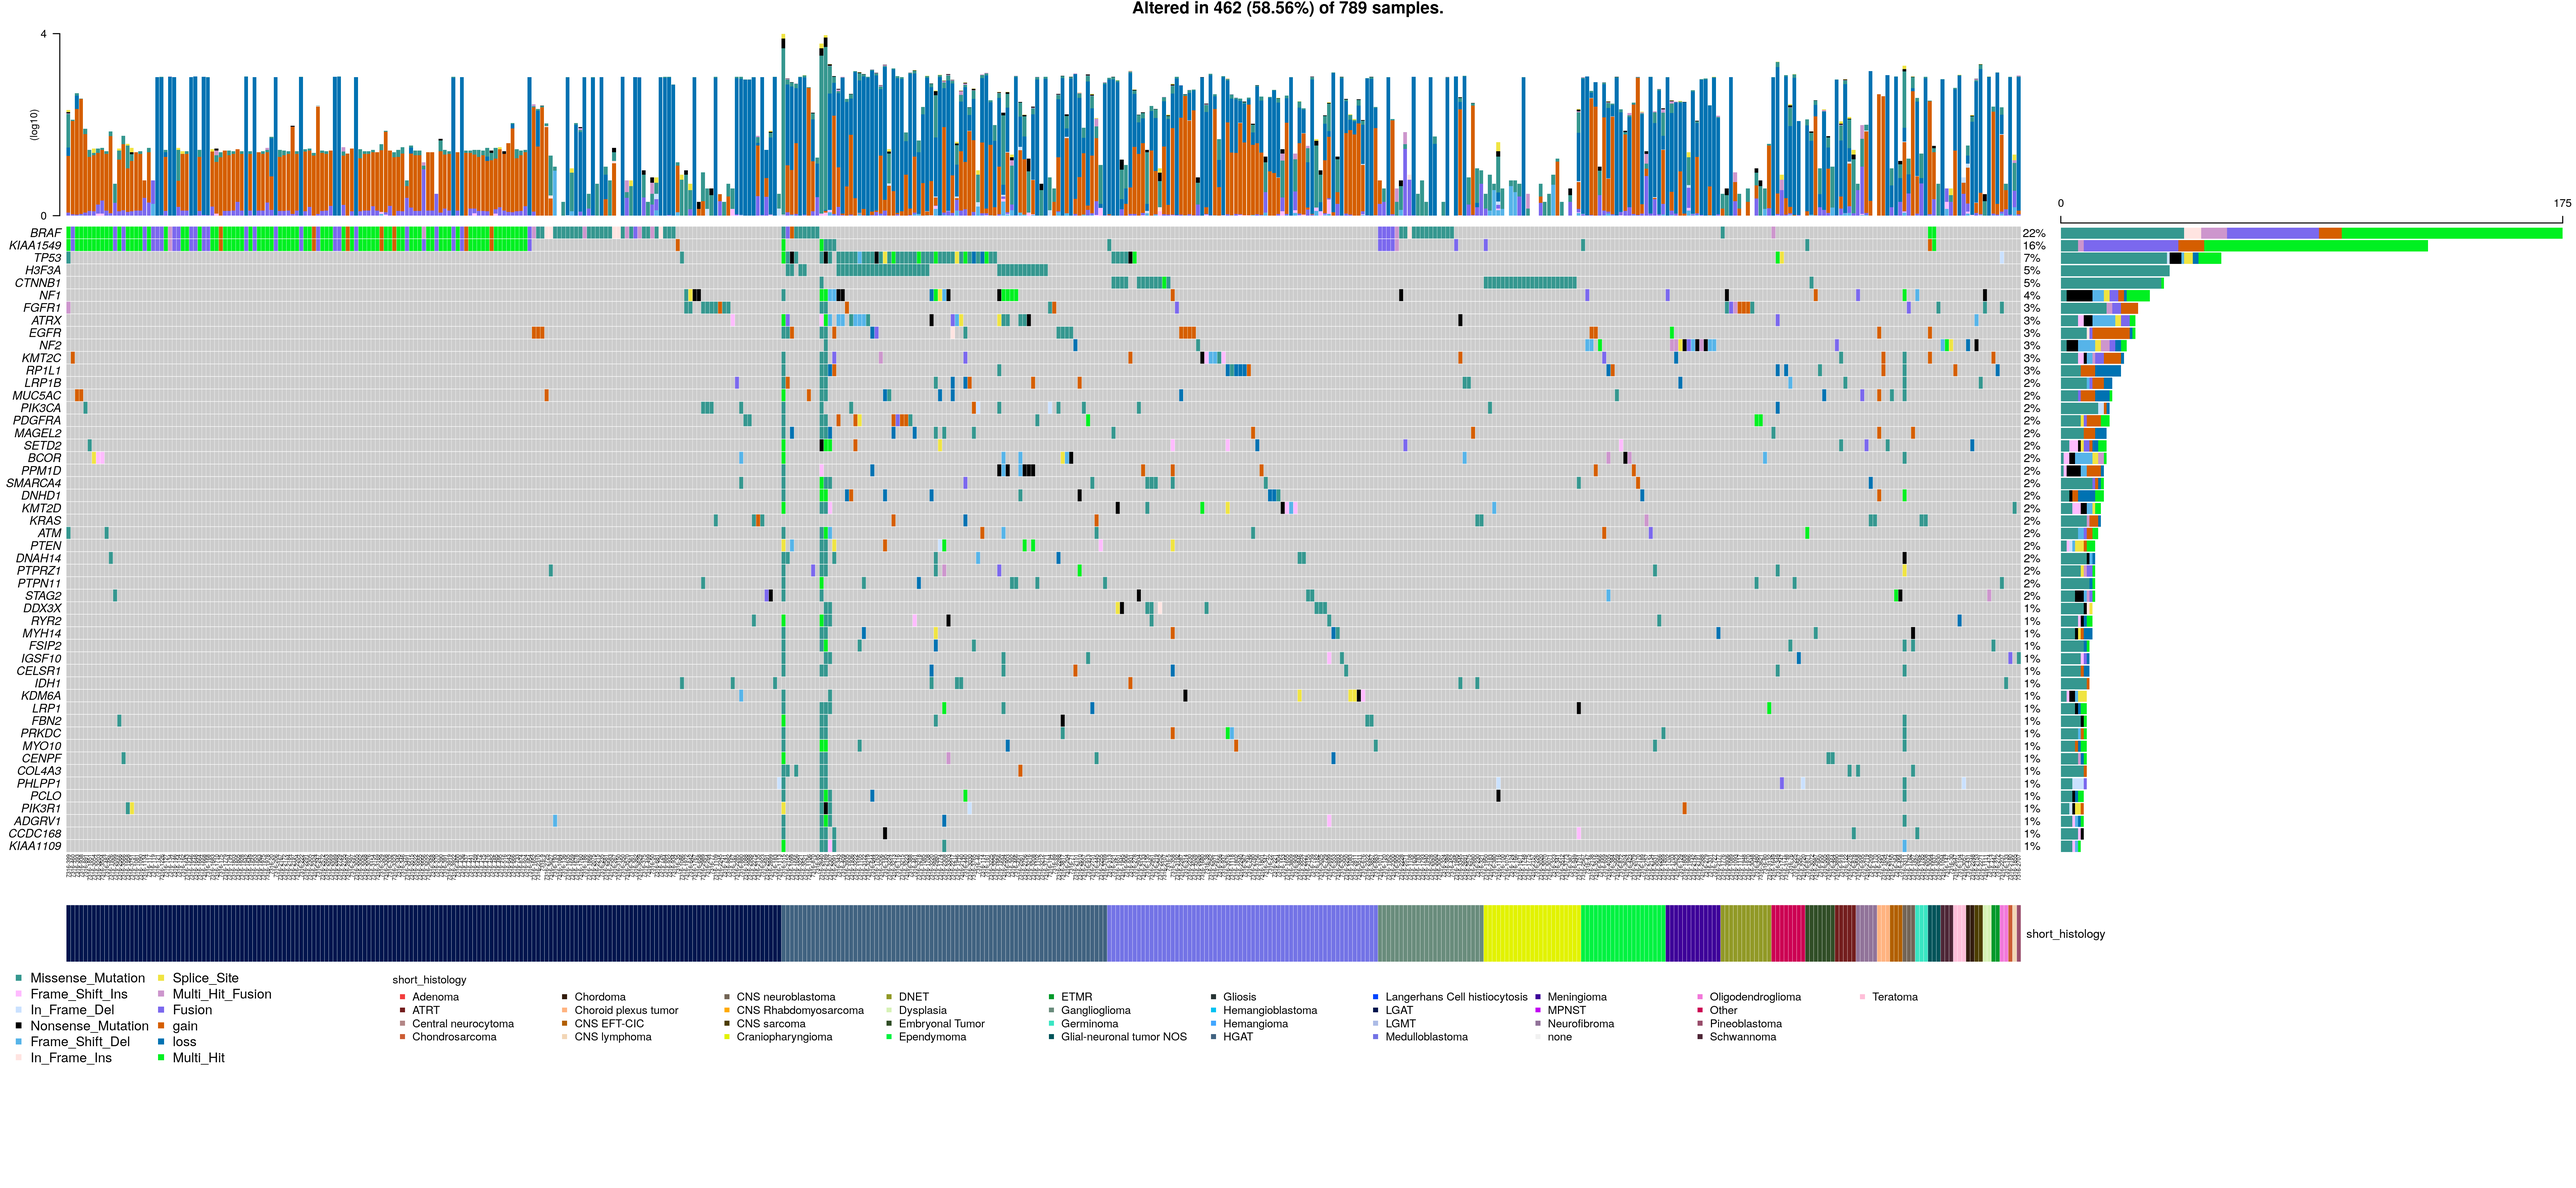
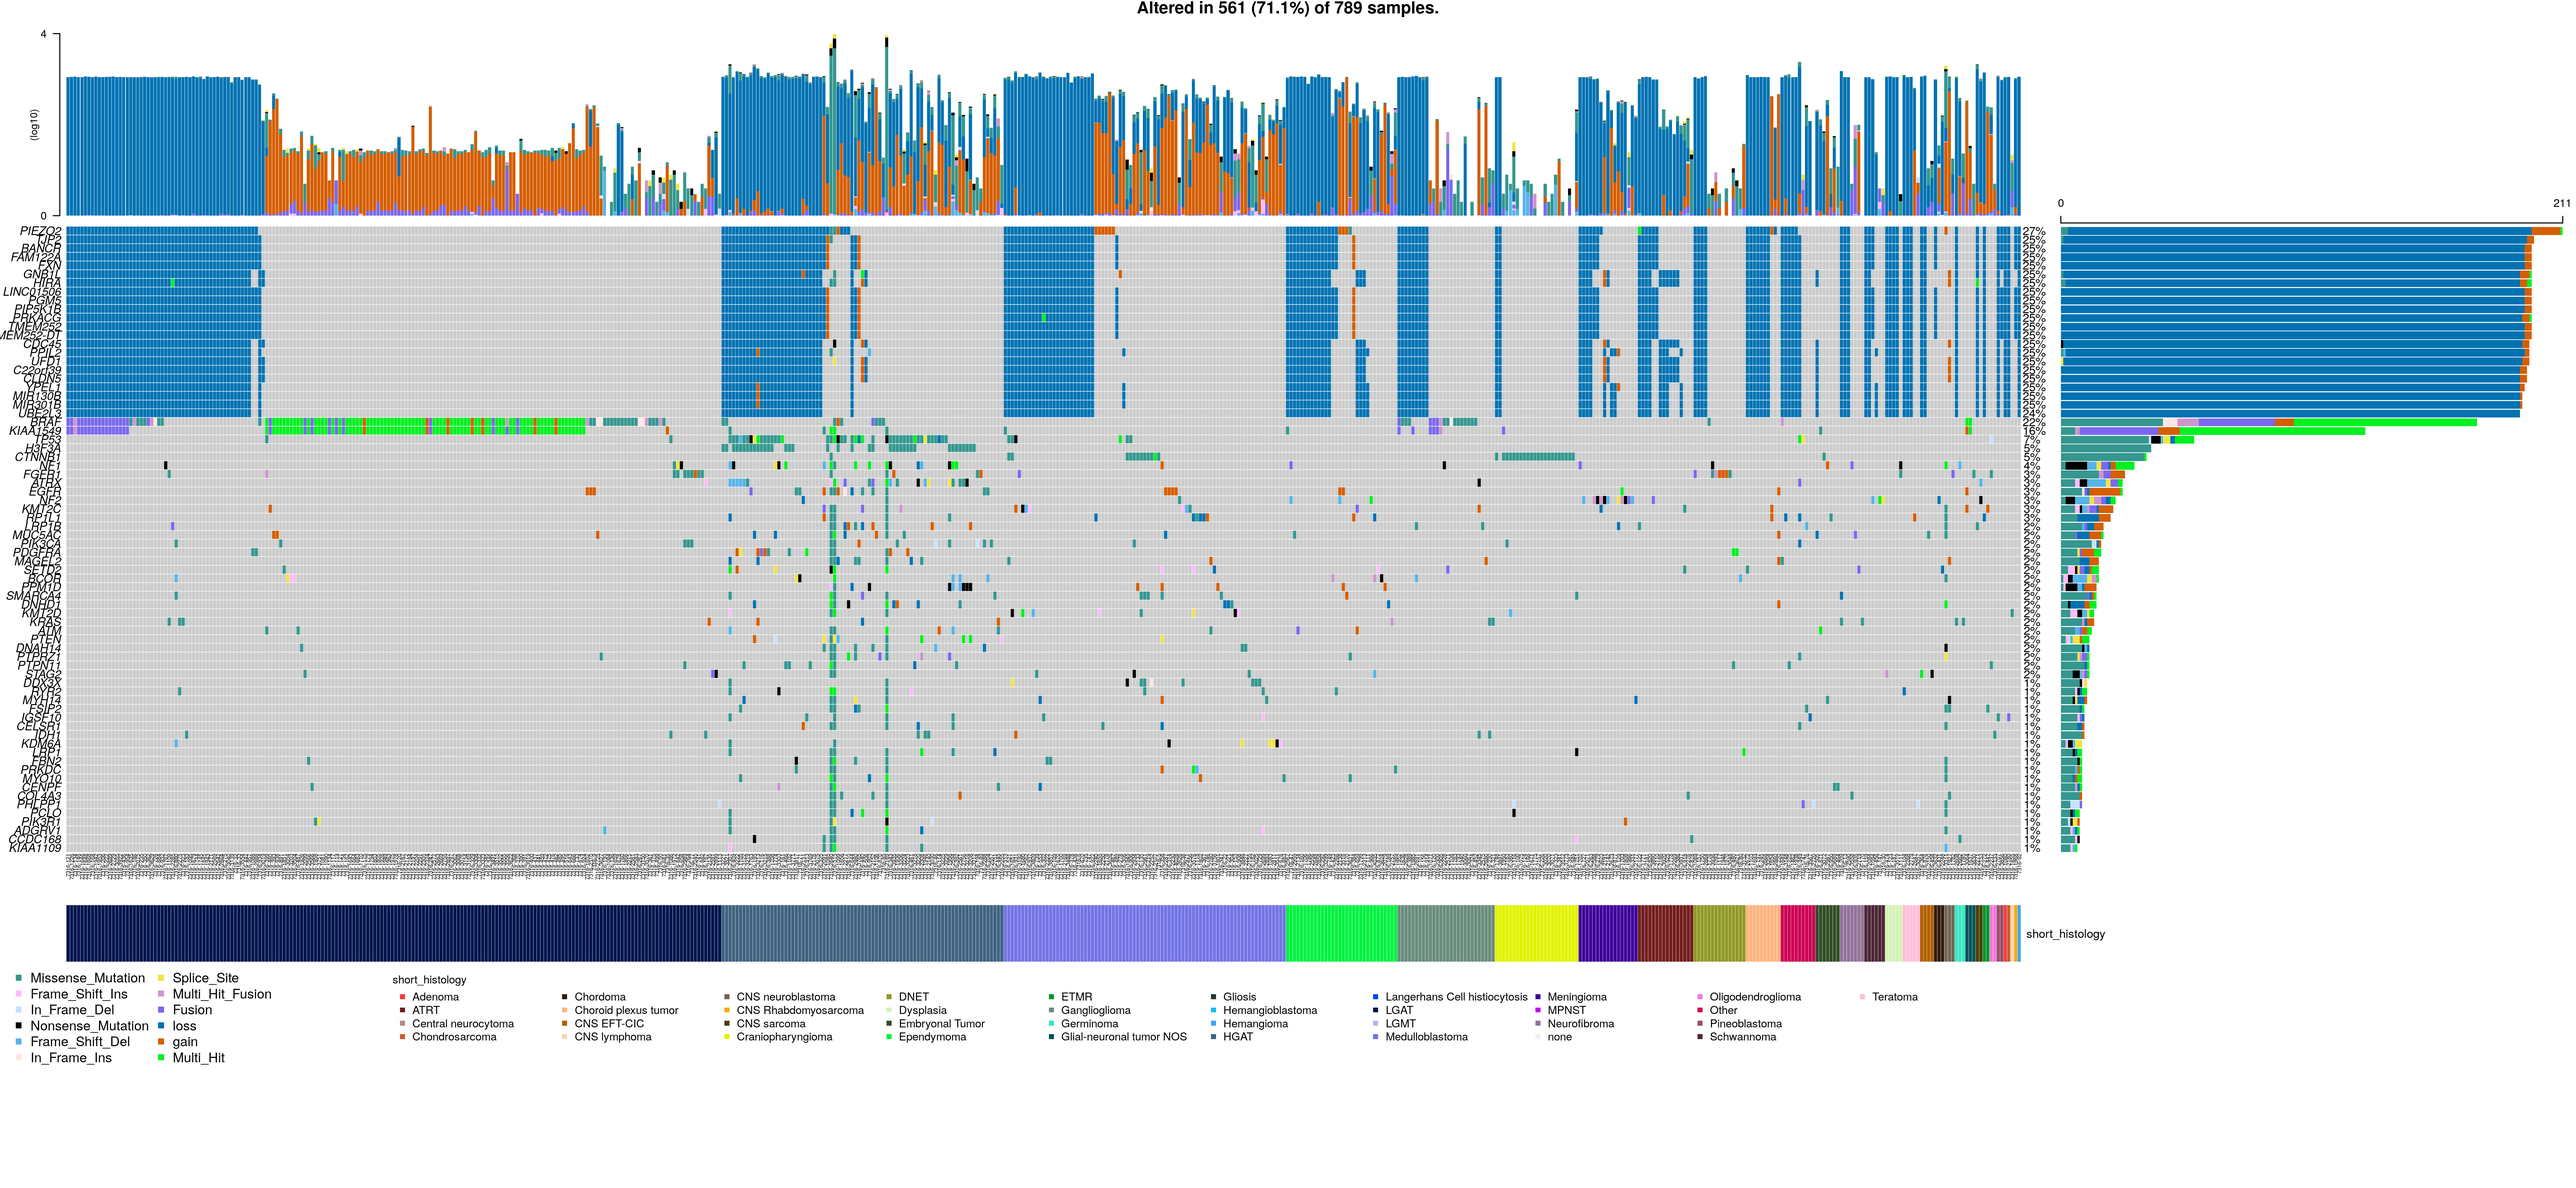
update `oncoprint-landscape` module
- update module `README.md` file
- add `concatenate-gene-lists.R` script to combine the genes of interest list
- run shell script using combined genes of interest list with top mutated genes and genes with top CN recurrence
- adjust `figures/generate-figures.sh` to copy over the goi version of the oncoprint
- remove `oncoprint-lanscape/driver-lists` as these files are no longer being used

Changed region(s): [[0.0, 0.031, 0.9962, 0.8072], [0.4358, 0.0, 0.5604, 0.031]]

diff --git a/analyses/oncoprint-landscape/README.md b/analyses/oncoprint-landscape/README.md
@@ -1,18 +1,12 @@
-# OpenPBTA Oncoprint
+## OpenPBTA Oncoprint Landscape
 
-## Work in progress
+**Module authors:** Chante Bethell ([@cbethell](https://github.com/cbethell)) and Jaclyn Taroni ([@jaclyn-taroni](https://github.com/jaclyn-taroni))
 
-This module is a work in progress.
-The code was written to be updated as consensus, filtered, and/or prioritized data becomes available.
-**The plots included as PNGs should be regarded as proof of concept, rather than for interpretation.**
+The purpose of this module is to plot the landscape of the consensus CNV, SNV and fusion OpenPBTA datasets.
 
-In particular, the following are likely to change:
+### Usage
 
-* The plot will use consensus copy number calls ([#128](https://github.com/AlexsLemonade/OpenPBTA-analysis/issues/128)).
-
-## Usage
-
-To run the Rscript in this module from the command line as intended, use:
+To run the Rscripts in this module from the command line as intended, use:
 
 ```
 bash run-oncoprint.sh
@@ -20,11 +14,36 @@ bash run-oncoprint.sh
 
 `run-oncoprint.sh` is designed to be run as if it was called from this module directory even when called from outside of this directory.
 
-## Folder content
+### Folder content
 
 * `00-map-to-sample_id.R` prepares MAF, focal CN (the output of the `focal-cn-file-preparation` module), and standardized fusion files for use with `01-plot-oncoprint.R`. 
   * The `Tumor_Sample_Barcode` column in the output corresponds to the `sample_id` column in the histologies file
   * We remove ambiguous `sample_id` -- i.e., where there are more than two tumor biospecimens that map to the same sample identifier.
   * Filtering via an [independent specimen file](https://alexslemonade.github.io/OpenPBTA-manuscript/#selection-of-independent-samples) is optional, but highly recommended.
-* `01-plot-oncoprint.R` takes the files from above and optionally a gene list and creates an oncoprint.
+* `01-plot-oncoprint.R` takes the files from above and optionally a list of top mutated genes (generated in `analyses/interaction-plots/scripts/01-disease-specimen-lists.R`, top genes with recurrent CNVs (generated in `analyses/focal-cn-file-preparation/06-find-recurrent-calls.Rmd`, or a concatenated list of these genes (generated in this module's `util/concatenate-gene-lists.R` script).
+This script generates an oncoprint displaying the landscape across PBTA given
+the relevant metadata.
+* `concatenate-gene-lists.R` takes two separate gene lists as input and combines them into a list with one column for use in the oncoprint plotting.
+The output of this script is a TSV file with the combined list of genes, stored in this module's `results` directory.
+This script is found in this module's `util` directory.
 
+### Folder Structure
+
+```
+oncoprint-landscape
+├── 00-map-to-sample_id.R
+├── 01-plot-oncoprint.R
+├── README.md
+├── data
+├── plots
+│   ├── all_participants_primary-plus_goi_oncoprint.png
+│   ├── all_participants_primary-plus_oncoprint.png
+│   ├── all_participants_primary_only_goi_oncoprint.png
+│   └── all_participants_primary_only_oncoprint.png
+├── results
+│   └── combined_goi_list.tsv
+├── run-oncoprint.sh
+└── util
+    ├── concatenate-gene-lists.R
+    └── oncoplot-functions.R
+```
